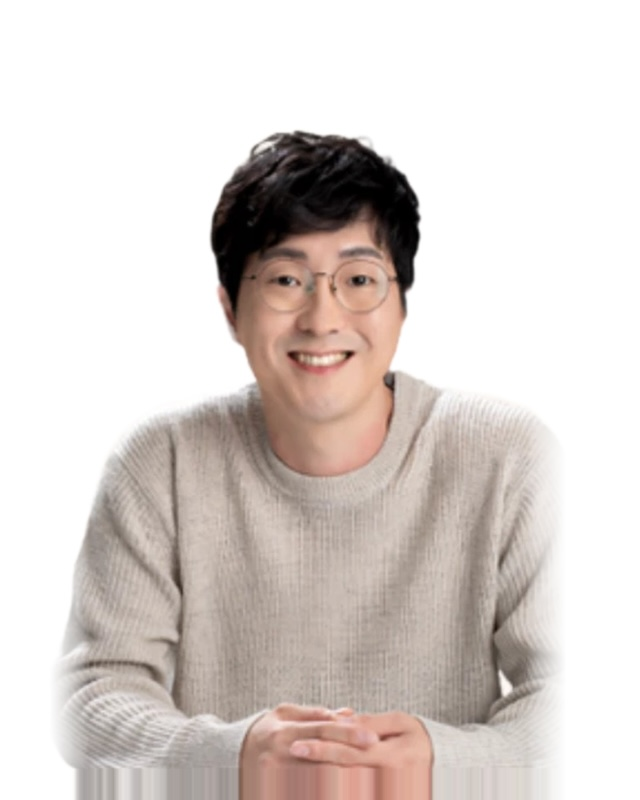
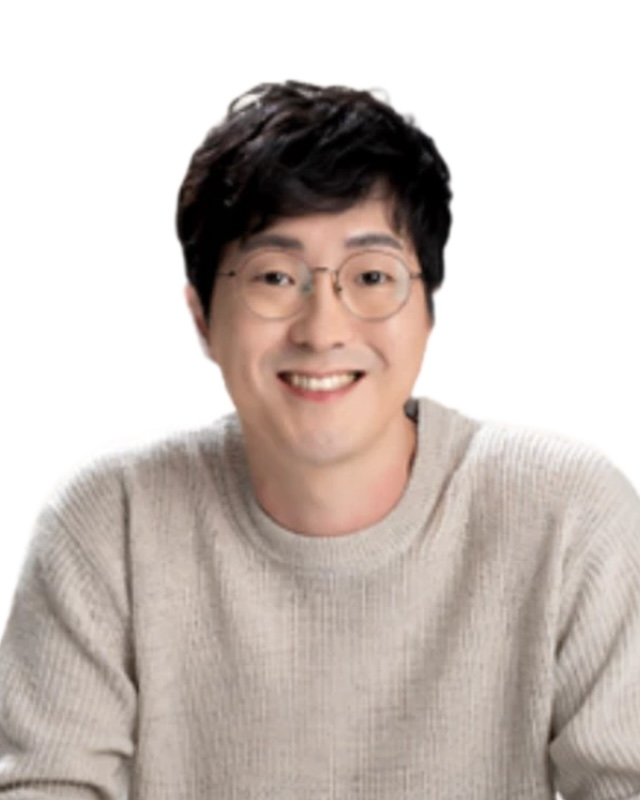
강사 사진: 늘려 붙인 부분 없애고 원본 그대로 흰 배경, 머리 잘림 없이 프레임 채움

diff --git a/index.html b/index.html
@@ -610,7 +610,7 @@ const T=[
 ];
 const list=document.getElementById('tlist');
 /* 사진: img/teachers/이름.jpg 를 PHOTO 에 적으면 사진, 없으면 성 한 글자 */
-const PHOTO={};['류성훈','이태형','장의순','김호랑','권현석','정민','홍진수','최정윤','이예섭','정지만','김현중','이창환','최현재','김경한','문지현','박정은'].forEach(n=>PHOTO[n]='img/teachers/'+n+'.jpg?v=1123');
+const PHOTO={};['류성훈','이태형','장의순','김호랑','권현석','정민','홍진수','최정윤','이예섭','정지만','김현중','이창환','최현재','김경한','문지현','박정은'].forEach(n=>PHOTO[n]='img/teachers/'+n+'.jpg?v=1123b');
 /* 줄 순서: 1줄 국어 · 2줄 수학 · 3줄 영어 · 4줄 탐구 · 논술 (11/19 사장님 요청)
    같은 과목 안에서는 (탐구는 통합과학·통합사회·사탐 순으로 묶고) 사진 있는 강사 먼저, 나머지는 배열 순서 그대로 */
 const SUBJ=['국어','수학','영어','탐구','논술'];
